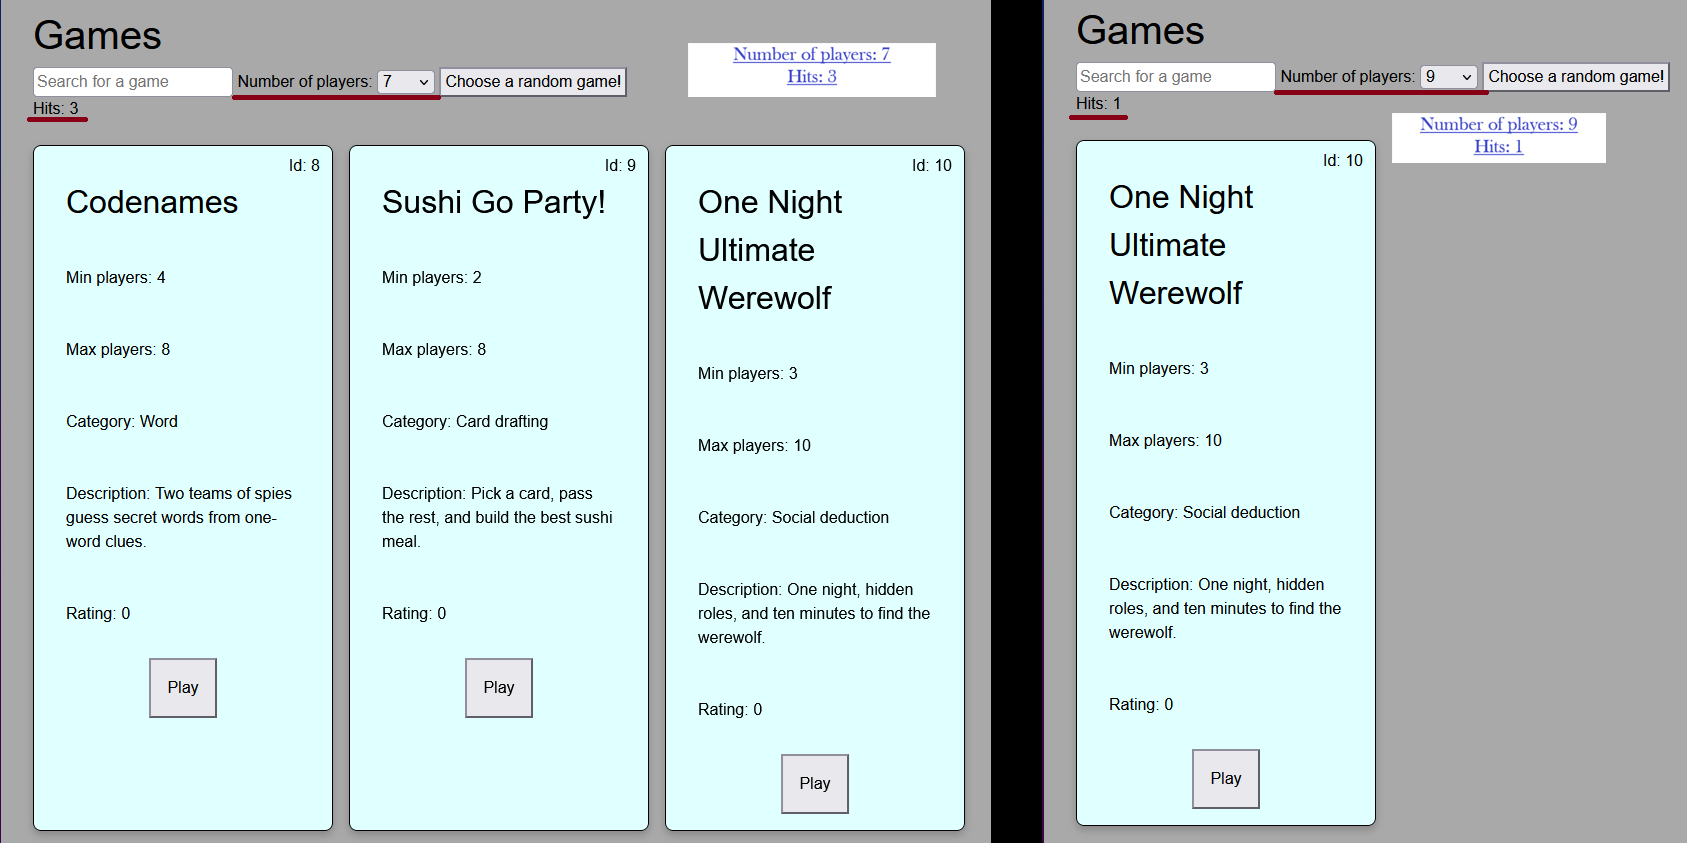
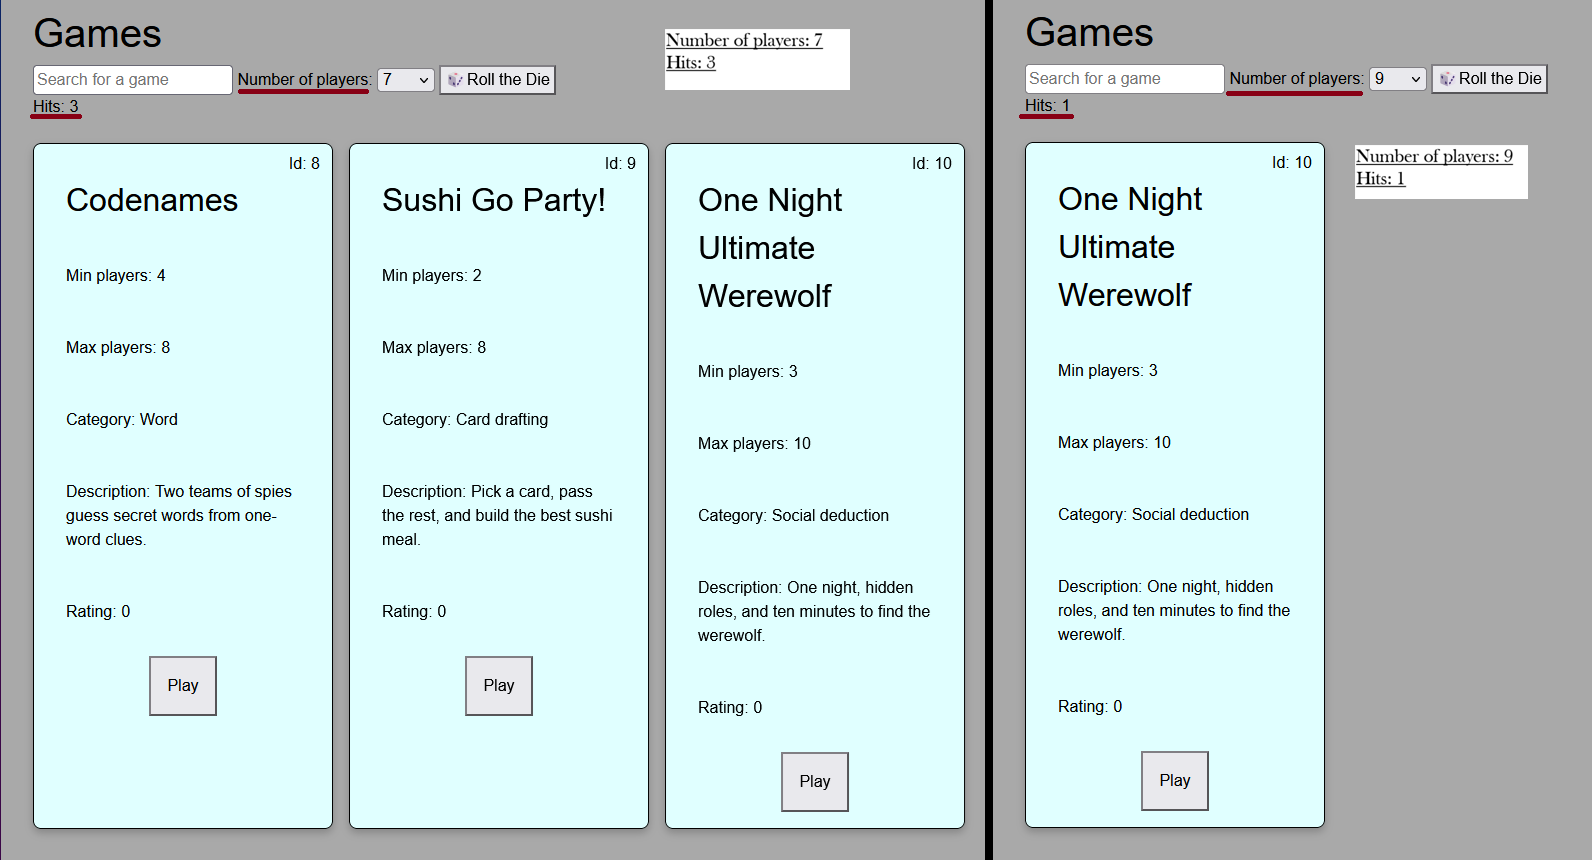
update screenshots for task 1 README.md

diff --git a/SoftwareDesign.Tests/README.md b/SoftwareDesign.Tests/README.md
@@ -25,26 +25,22 @@ Must contain:
 ---
 
 ## Manual Test Log
-_Note:  
-Since writing this section, one change to the style of the page has been made. The button `Choose a random game!` 
-is now called `🎲Roll the die`_
 
-**Case: _Search with no hits, clicking "Choose a random game!" does not crash_**
-- Search for something that yields no hits
+**Case: _Search with no hits, clicking "Choose a random game!" does not crash_**    
+- Search for `asd`
 - Number of players: `Any`
 - Click `🎲Roll the die`
 
-**Expected result:**  
+**Expected result:**    
 - `Hits: 0`
 - `No games matching the search.`
 - No hits
 - No crash
 
-**Actual result:**
-
+**Actual result:**  
 ![manual test](Images/task1_manualtest_games_search.png)
 
-**Case: _Search with hits, random game highlight working_**  
+**Case: _Search with hits, random game highlight working_**    
 - Search for something that yields at least 2 results
 - Click `🎲Roll the die`
 
@@ -53,31 +49,31 @@ is now called `🎲Roll the die`_
 - No message for no matching games
 - Highlighted random game
 
-**Actual result:**
+**Actual result:**  
 ![random when there are hits](Images/task1_manualtest_games_hit_random.png)
 
-**Case: _Dropdown menu affects hits_**  
+**Case: _Dropdown menu affects hits_**    
 - Pick 7 players
 - Pick 9 players
 
-**Expected result:**
+**Expected result:**  
 - `Hits: 3`
 - `Hits: 1`
 
-**Actual result:**
+**Actual result:**    
 ![dropdown7](Images/task1_manualtest_dropdown7_9.png)
 
-**Case: _Filtering and dropdown work together_**
+**Case: _Filtering and dropdown work together_**  
 - Search for `span`
 - Dropdown: `5 players`
 - Dropdown: `6 players`
 
-**Expected result:**
+**Expected result:**  
 - `Hits: 2`
 - Two games, `Hits: 2`
 - No hits, `No games matching the search`
 
-**Actual result:**
+**Actual result:**  
 ![dropdown and search](Images/task1_manualtest_dropdown_search.png)
 
 ---
